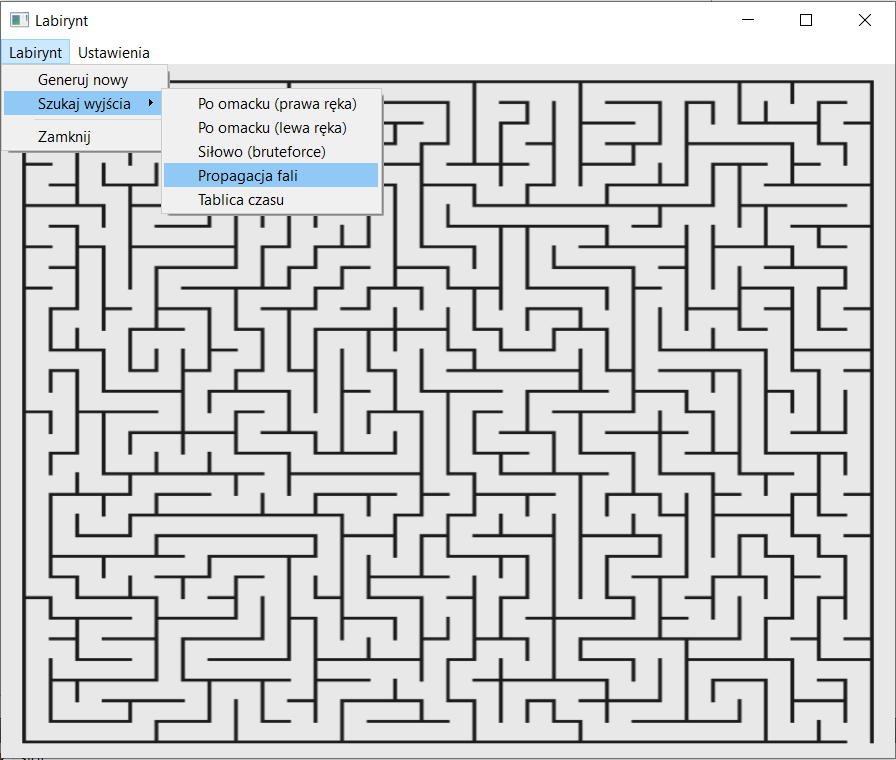
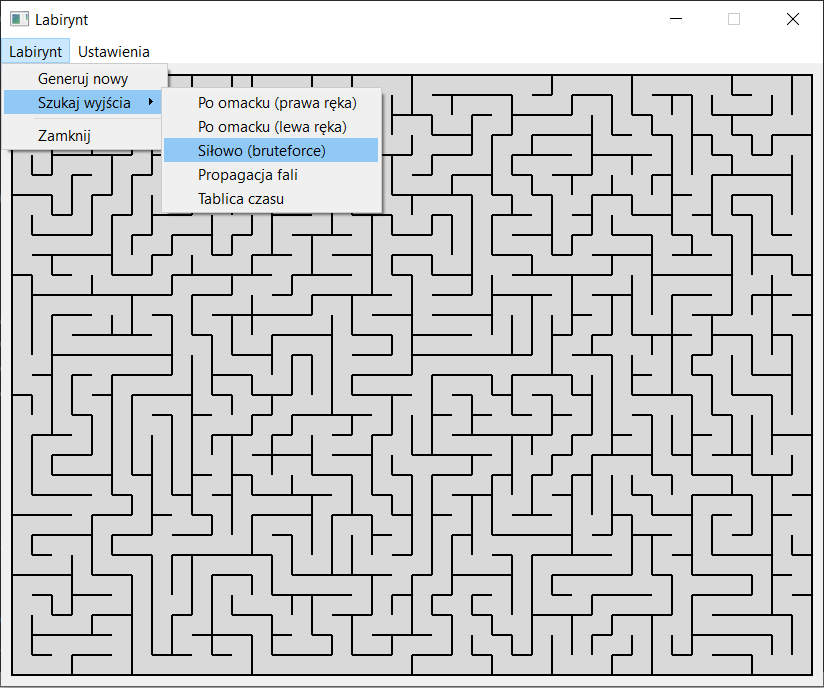
add generate labyrinth method -> DFS

diff --git a/board.cpp b/board.cpp
@@ -1,11 +1,23 @@
 #include "board.h"
+#include <QDebug>
 
-Board::Board(int height, int width)
+Board::Board(uint8_t height, uint8_t width)
 {
-    if (height > 100 || width > 200 || height < 10 || width < 10)       //set default
+    if (width > 200)       //set default
     {
-        height = 20;
-        width = 20;
+        width = 200;
+    }
+    if (width < 10)        //set default
+    {
+        width = 10;
+    }
+    if (height > 100)      //set default
+    {
+        height = 100;
+    }
+    if (height < 10)      //set default
+    {
+        height = 10;
     }
     this->height = height;
     this->width = width;
@@ -14,18 +26,28 @@ Board::Board(int height, int width)
 
 void Board::clear()
 {
-    for (int y = 0; y < height; y++)
+    for (uint8_t y = 0; y < height; y++)
     {
-        for (int x = 0; x < width; x++)
+        for (uint8_t x = 0; x < width; x++)
         {
             board[y][x].clear();
         }
     }
 }
 
-Cell Board::getCell(int y, int x)
+void Board::dellWallinCell(uint8_t y, uint8_t x, Cell::TypeWall wall)
 {
-    if (y < 0 || x < 0 || y >= height || x >= width)
+    board[y][x].delWall(wall);
+}
+
+void Board::setWallinCell(uint8_t y, uint8_t x, Cell::TypeWall wall)
+{
+    board[y][x].setWall(wall);
+}
+
+Cell Board::getCell(uint8_t y, uint8_t x)
+{
+    if (y >= height || x >= width)
     {
         Cell lockCell;
         lockCell.checkTheLock();
@@ -34,9 +56,9 @@ Cell Board::getCell(int y, int x)
     return board[y][x];
 }
 
-void Board::setCell(int y, int x, Cell cell)
+void Board::setCell(uint8_t y, uint8_t x, Cell cell)
 {
-    if (y >= 0 && x >= 0 && y < height && x < width)
+    if (y >= 0 && x >= 0 && y < this->height && x < this->width)
     {
         board[y][x] = cell;
     }
@@ -44,14 +66,120 @@ void Board::setCell(int y, int x, Cell cell)
 
 void Board::generateFrame()
 {
-    for (int x = 0; x < width; x++)
+    for (uint8_t x = 0; x < width; x++)
     {
         board[0][x].setWall(Cell::UP);
         board[height - 1][x].setWall(Cell::DOWN);
     }
-    for (int y = 0; y < height; y++)
+    for (uint8_t y = 0; y < height; y++)
     {
         board[y][0].setWall(Cell::LEFT);
         board[y][width - 1].setWall(Cell::RIGHT);
     }
+}
+
+void Board::checkCellAsVisited(uint8_t y, uint8_t x)
+{
+    board[y][x].checkVisited();
+}
+
+void Board::generateTheBeginningOfTheLabyrinth()
+{
+    for (uint8_t y = 0; y < height; y++)
+    {
+        for (uint8_t x = 0; x < width; x++)
+        {
+            board[y][x].checkTheLock();
+        }
+    }
+}
+
+uint8_t rDirectory;
+void Board::generateMaze_methodDFS(uint8_t y, uint8_t x)
+{
+    //-- set the cell as visited
+    board[y][x].checkVisited();
+
+    //-- random direction permutation
+    uint8_t tabDirectory[4] = {0,1,2,3};
+    uint8_t directionPermutation[4];
+    rDirectory = rand()%4;
+    directionPermutation[0] = tabDirectory[rDirectory];
+    if (rDirectory!=3) tabDirectory[rDirectory] = tabDirectory[3];
+    rDirectory = rand()%3;
+    directionPermutation[1] = tabDirectory[rDirectory];
+    if (rDirectory!=2) tabDirectory[rDirectory] = tabDirectory[2];
+    rDirectory = rand()%2;
+    directionPermutation[2] = tabDirectory[rDirectory];
+    if (rDirectory==0) directionPermutation[3] = tabDirectory[1];
+    else directionPermutation[3] = tabDirectory[0];
+
+    //-- check/go permutation function
+    for (int r = 0; r < 4; r++) {
+        switch (directionPermutation[r])
+        {
+            case 0 :    //up
+            {
+                if ( y > 0 )
+                {
+                    if (board[y-1][x].isVisited()==false)
+                    {
+                        board[y][x].delWall(Cell::UP);
+                        board[y-1][x].delWall(Cell::DOWN);
+                        generateMaze_methodDFS(y-1,x);
+                    }
+                }
+                break;
+            }
+            case 1 :    //rigth
+            {
+                if ( x < width - 1 )
+                {
+                    if (board[y][x+1].isVisited()==false)
+                    {
+                        board[y][x].delWall(Cell::RIGHT);
+                        board[y][x+1].delWall(Cell::LEFT);
+                        generateMaze_methodDFS(y,x+1);
+                    }
+                }
+                break;
+            }
+            case 2 :    //down
+            {
+                if ( y < height - 1 )
+                {
+                    if (board[y+1][x].isVisited()==false)
+                    {
+                        board[y][x].delWall(Cell::DOWN);
+                        board[y+1][x].delWall(Cell::UP);
+                        generateMaze_methodDFS(y+1,x);
+                    }
+                }
+                break;
+            }
+            case 3 :    //left
+            {
+                if ( x > 0 )
+                {
+                    if (board[y][x-1].isVisited()==false)
+                    {
+                        board[y][x].delWall(Cell::LEFT);
+                        board[y][x-1].delWall(Cell::RIGHT);
+                        generateMaze_methodDFS(y,x-1);
+                    }
+                }
+                break;
+            }
+        }
+    }
+}
+
+uint8_t Board::getWidth()
+{
+    return this->width;
+}
+
+uint8_t Board::getHeight()
+{
+    return this->height;
 }

diff --git a/mainwindow.cpp b/mainwindow.cpp
@@ -6,12 +6,13 @@ MainWindow::MainWindow(QWidget *parent)
     : QMainWindow(parent)
     , ui(new Ui::MainWindow)
 {
+    srand(time(NULL));
     ui->setupUi(this);
 
     //--- set start parameters
-    globalX = 20;
-    globalY = 20;
-    globalWidth = 32;
+    globalX = 40;
+    globalY = 30;
+    globalWidth = 20;
 
     //--- connect menu
     connect(ui->actionPolish,SIGNAL(triggered()),this, SLOT(clickMenuPolish()));
@@ -21,16 +22,19 @@ MainWindow::MainWindow(QWidget *parent)
     //--- set default language
     language = new Language(Language::Polish);
 
-    refreshWindowsSize();   //set windows size - auto width and height
+    //-------------------------------- start palete
+    refreshWindowsSize();                   //set windows size - auto width and height
+    //-------------------------------- start palete
 
     paintOnImage = new QPainter;
     paintOnImage->begin(image);
     //--- draw main frame
     paintOnImage->drawRect(0,0,globalX*globalWidth+1,globalY*globalWidth+1);
 
-    board->generateFrame();
+//    board->generateFrame();
+    board->generateTheBeginningOfTheLabyrinth();
+    board->generateMaze_methodDFS(0,0);
     drawBoard();
-    //qDebug() << (6 & 4);
 }
 
 void MainWindow::paintEvent(QPaintEvent *)
@@ -110,6 +114,11 @@ void MainWindow::refreshLanguage()
 
 void MainWindow::refreshWindowsSize()
 {
+    //--- create new board;
+    board = new Board(globalY, globalX);    // create my board
+    globalY = board->getHeight();           //set default
+    globalX = board->getWidth();
+
     //--- paint / create palete
     QWidget::setMinimumHeight(globalY*globalWidth+22+ui->menubar->height());
     QWidget::setMaximumHeight(globalY*globalWidth+22+ui->menubar->height());
@@ -118,16 +127,13 @@ void MainWindow::refreshWindowsSize()
 
     image =  new QImage(globalX*globalWidth+2,globalY*globalWidth+2,QImage::Format_RGB32);
     image -> fill(QColor(217,217,217));
-
-    //--- create my board
-    board = new Board(globalY, globalX);
 }
 
 void MainWindow::drawBoard()
 {
-    for (int y = 0; y < globalY; y++)
+    for (uint8_t y = 0; y < globalY; y++)
     {
-        for (int x = 0; x < globalX; x++)
+        for (uint8_t x = 0; x < globalX; x++)
         {
             drawCell(y,x);
         }
@@ -135,7 +141,7 @@ void MainWindow::drawBoard()
     repaint();
 }
 
-void MainWindow::drawCell(int y, int x)
+void MainWindow::drawCell(uint8_t y, uint8_t x)
 {
 
  if (board->getCell(y,x).getWall(Cell::UP))

diff --git a/board.h b/board.h
@@ -5,15 +5,24 @@
 class Board
 {
 public:
-    Board(int height, int width);
+    Board(uint8_t height, uint8_t width);
     void clear();
-    Cell getCell(int y, int x);
-    void setCell(int y, int x, Cell cell);
+    Cell getCell(uint8_t y, uint8_t x);
+    void setCell(uint8_t y, uint8_t x, Cell cell);
+    void dellWallinCell(uint8_t y, uint8_t x, Cell::TypeWall wall);
+    void setWallinCell(uint8_t y, uint8_t x, Cell::TypeWall wall);
+    void generateTheBeginningOfTheLabyrinth();
+    void checkCellAsVisited(uint8_t y, uint8_t x);
+    uint8_t getWidth();
+    uint8_t getHeight();
+
+    //-- maze generating functions
+    void generateMaze_methodDFS(uint8_t yStart, uint8_t xStart);
 
 private:
     Cell board[100][200];   //ymax = 100, xmax = 200
-    int width;
-    int height;
+    uint8_t width;
+    uint8_t height;
 
 public: //temporary is public
     void generateFrame();

diff --git a/cell.cpp b/cell.cpp
@@ -1,4 +1,5 @@
 #include "cell.h"
+#include <QDebug>
 
 Cell::Cell()
 {
@@ -47,7 +48,7 @@ void Cell::setWall(TypeWall maskTypewall)
 
 void Cell::delWall(TypeWall maskTypewall)
 {
-    walls = walls & !maskTypewall;                                 //ADN !bit  : = 0110 && !(0010) = 0110 && 1101 = 0100
+    walls -= maskTypewall;                                 //ADN !bit  : = 0110 && !(0010) = 0110 && 1101 = 0100
 }
 
 QList<uint8_t> Cell::getData()

diff --git a/mainwindow.h b/mainwindow.h
@@ -35,7 +35,7 @@ private:
     byte globalWidth;       //ceil width
     void refreshWindowsSize();
     void drawBoard();
-    void drawCell(int y, int x);
+    void drawCell(uint8_t y, uint8_t x);
     Board * board;          //myMainBoard
 
 protected:

diff --git a/README.md b/README.md
@@ -13,7 +13,7 @@ finished:
 - [x] menu in several languages (language class)
 - [x] cell skeleton (we work with bits, not bytes)
 - [ ] labyrinth generation algorithm by the method of straight lines
-- [ ] labyrinth generation algorithm by recursive method.
+- [x] labyrinth generation algorithm by DFS method [Link](https://pl.qwe.wiki/wiki/Depth-first_search)
 - [x] board skeleton and drawing
 - [ ] solving algorithms
 
@@ -33,3 +33,9 @@ tools:
 ### Ways and idea of solution:
 * Description of the ways -> [MicroMouse robots](https://forbot.pl/blog/roboty-micromouse-5-metod-przeszukiwania-labiryntu-id17354)
 * The shortest path in the graph -> [BELLMAN-FORD algorithm](https://pl.wikipedia.org/wiki/Algorytm_Bellmana-Forda)
+* https://pl.qwe.wiki -> [Wiki](https://pl.qwe.wiki/wiki/Maze_generation_algorithm)
+---
+### Screens
+<img src="./projectScreenImage/Labyrinth01.png" width=300 /> 
+<img src="./projectScreenImage/Labyrinth02.png" width=300 /> 
+<img src="./projectScreenImage/Labyrinth03.png" width=300 /> 
